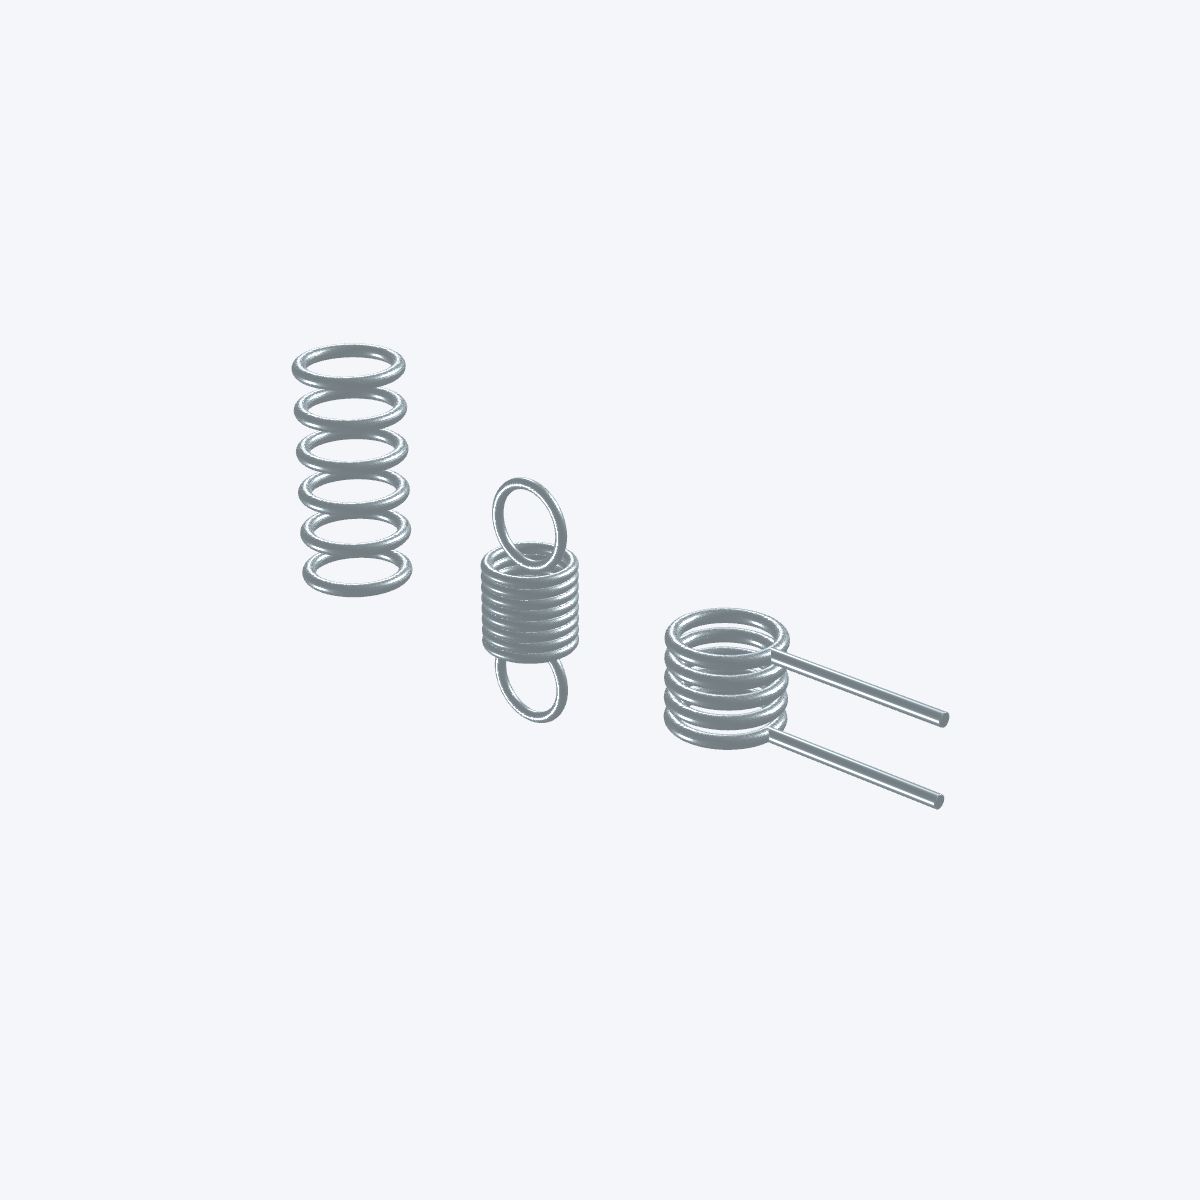
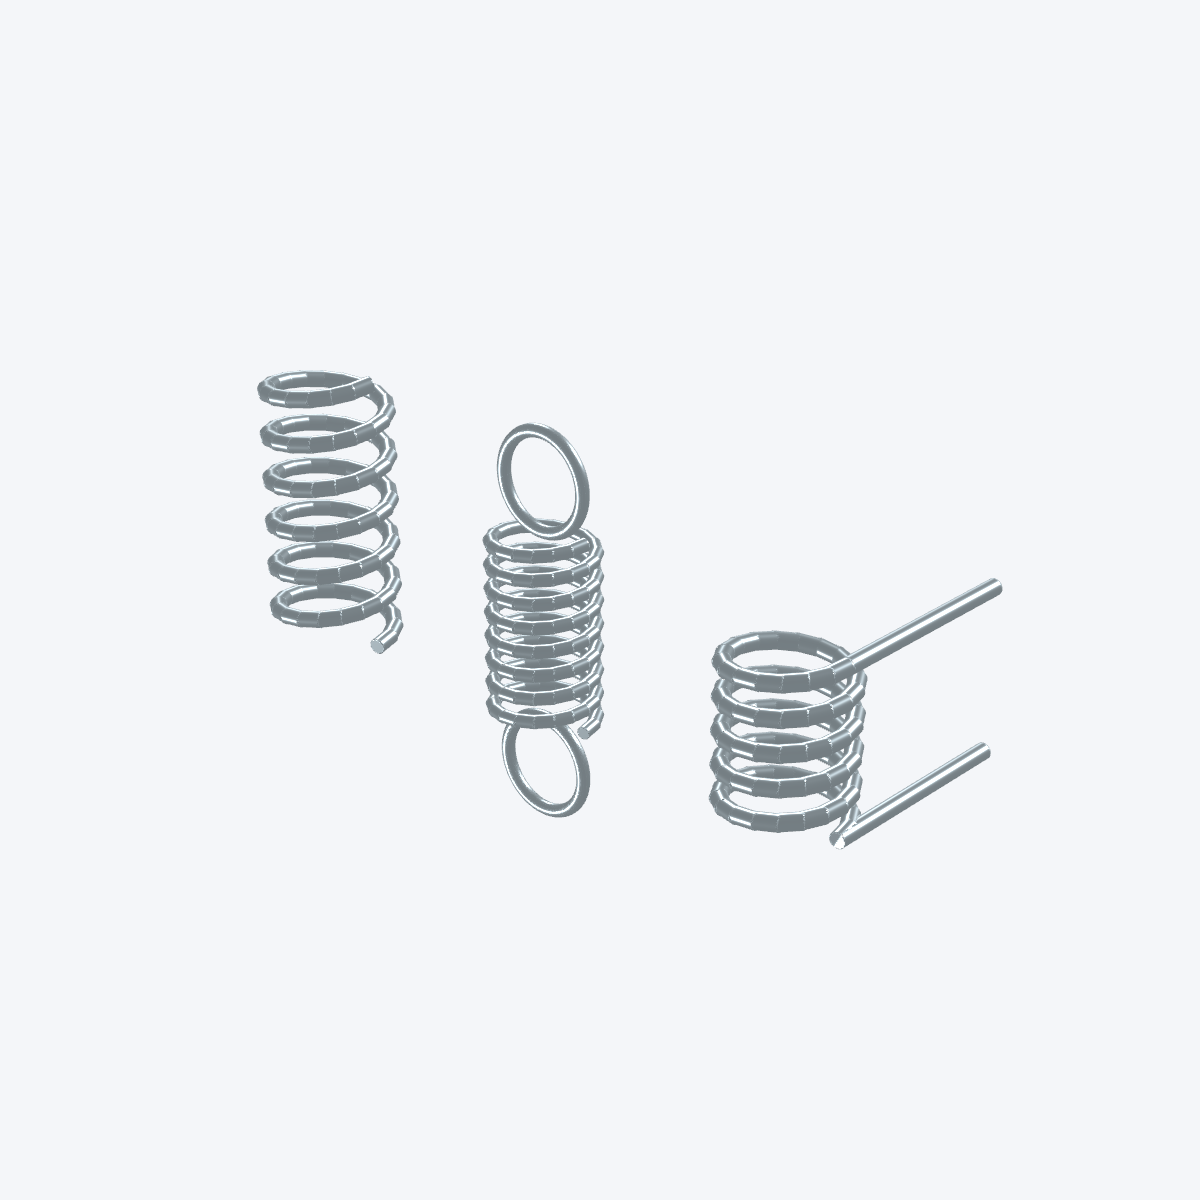
flywheelcad: real helical spring renders in the component library guide

Changed region(s): [[0.555, 0.4625, 0.8325, 0.7092], [0.4008, 0.3392, 0.5242, 0.6783], [0.2158, 0.2775, 0.3392, 0.555]]

diff --git a/flywheelcad/component-library/index.html b/flywheelcad/component-library/index.html
@@ -218,7 +218,7 @@ screw = cad.instance(cap_screw(cad, thread="M3", length=10))</code></pre>
         </article>
         <article class="lib-module">
           <figure class="lib-figure">
-            <img src="images/springs.png" alt="springs library parts" loading="lazy" width="1200" height="1200" />
+            <img src="images/springs.png?v=20260708a" alt="springs library parts" loading="lazy" width="1200" height="1200" />
           </figure>
           <div class="lib-body">
             <h3><code>springs</code> <span class="lib-count">3 parts</span></h3>
